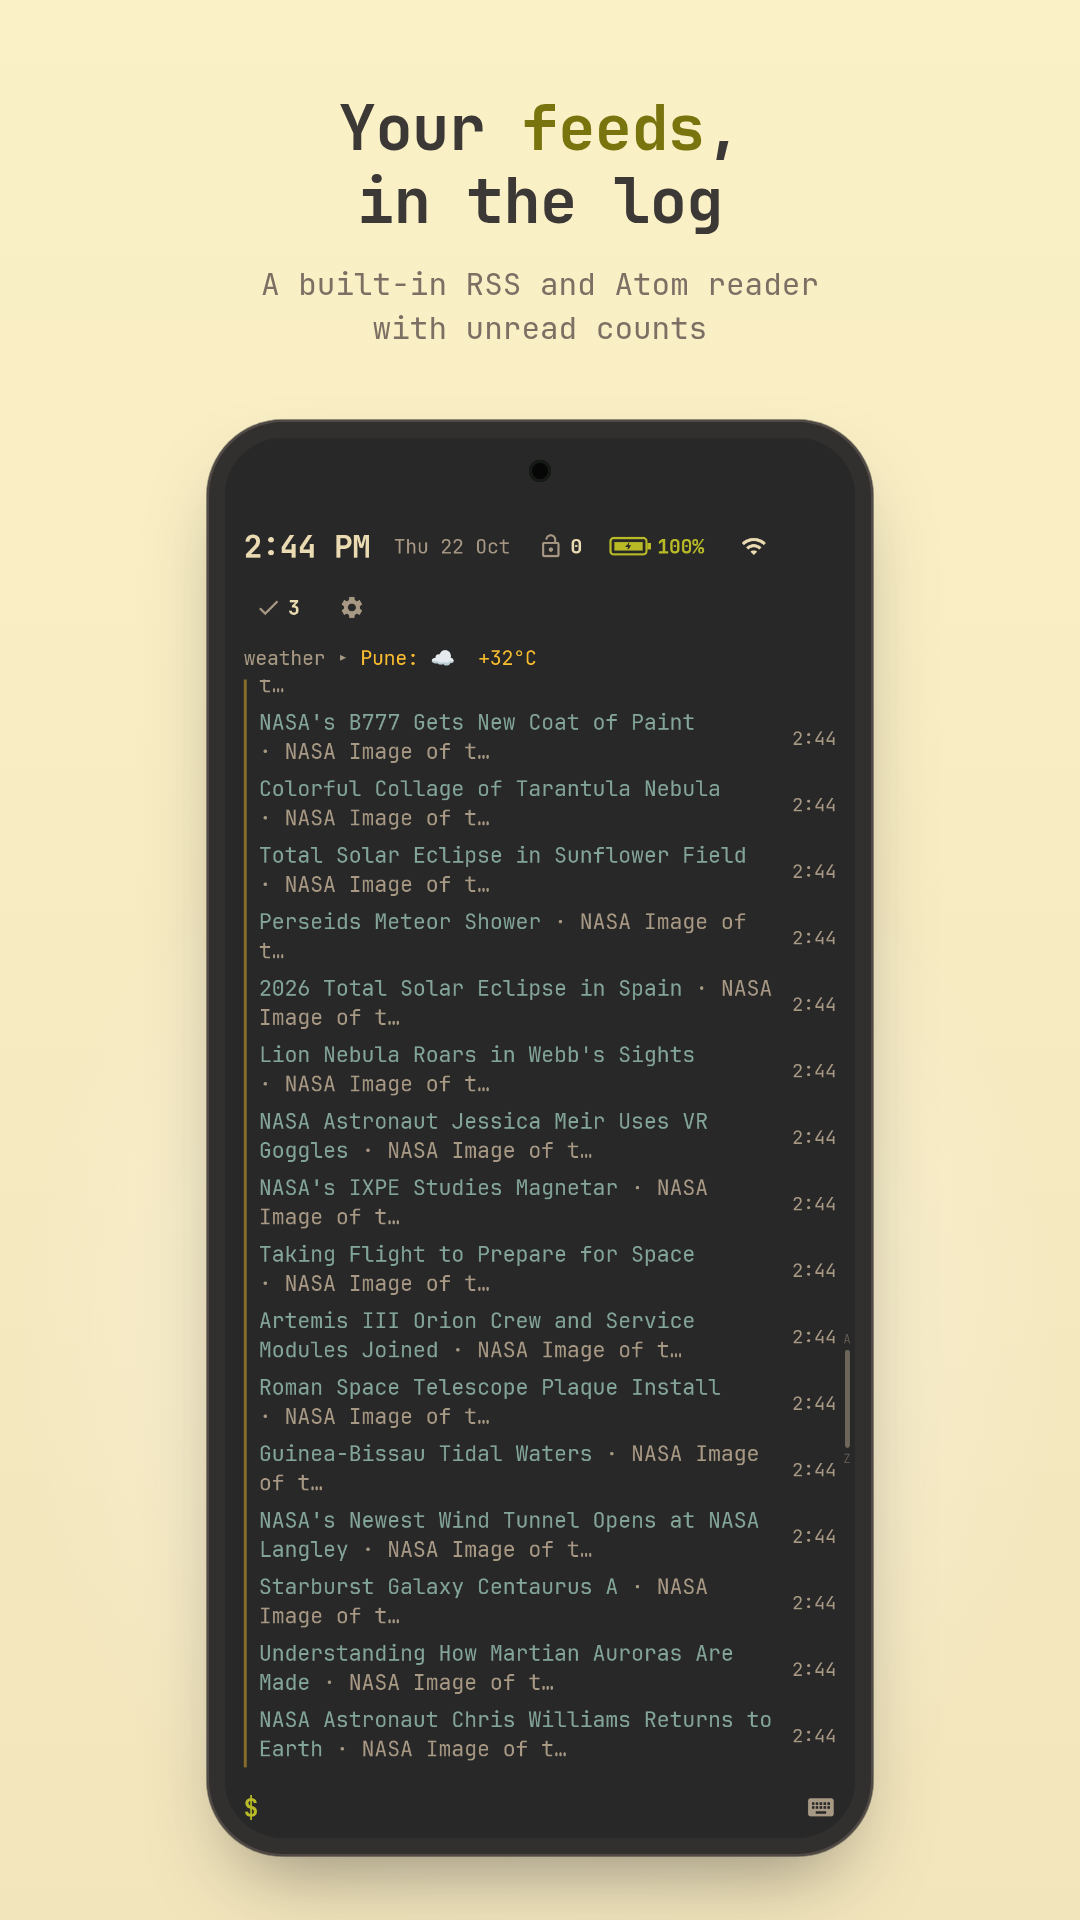
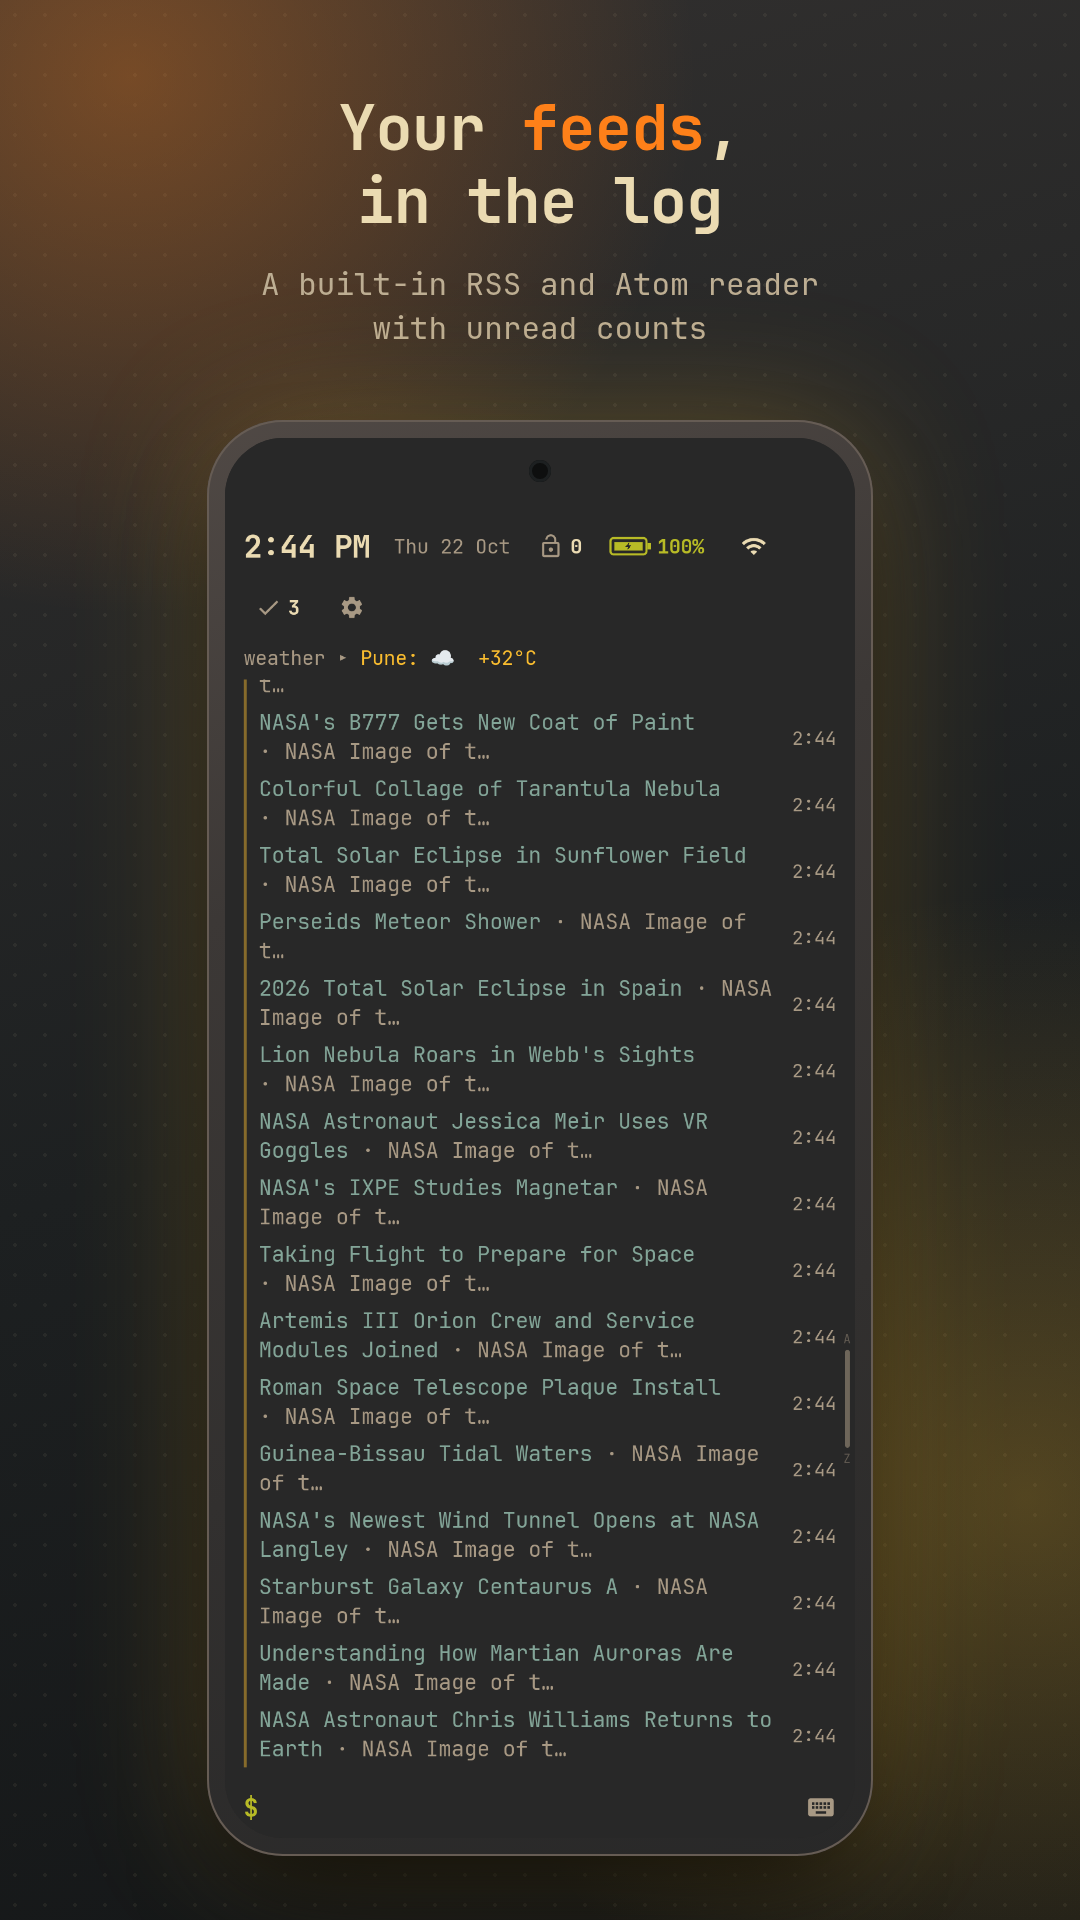
Play graphics on a dark gradient, and a dark keyboard in the typing screenshot
The frames and the feature graphic move to gruvbox dark: a gradient with two gruvbox-coloured glows
per screenshot (its caption's highlighted words take the first) over a faint dot grid. The typing
capture is retaken with the emulator in dark mode, so the keyboard is dark too.

diff --git a/docs/release/graphics/screenshot.html b/docs/release/graphics/screenshot.html
@@ -9,15 +9,14 @@
 	@font-face { font-family: 'JetBrains Mono'; font-weight: 400; src: url('../../../app/src/main/res/font/jetbrains_mono_regular.ttf'); }
 	@font-face { font-family: 'JetBrains Mono'; font-weight: 700; src: url('../../../app/src/main/res/font/jetbrains_mono_bold.ttf'); }
 	:root {
-		/* The website's light colours (gruvbox light); the phone shows the app in gruvbox. */
-		--paper: #fbf1c7;
-		--paper-2: #f2e5bc;
-		--fg: #3c3836;
-		--dim: #7c6f64;
-		--accent: #79740e;
+		/* Gruvbox dark, as the app on the phone. --a and --b (r g b) are each shot's two colours. */
+		--fg: #ebdbb2;
+		--dim: #bdae93;
 		--screen: #282828;
-		--bezel: #32302f;
-		--edge: #504945;
+		--bezel: #3c3836;
+		--edge: #665c54;
+		--a: 250 189 47;
+		--b: 142 192 124;
 	}
 	* { margin: 0; box-sizing: border-box; }
 	html, body { width: 1080px; height: 1920px; overflow: hidden; }
@@ -25,8 +24,10 @@
 		font-family: 'JetBrains Mono', monospace;
 		color: var(--fg);
 		background:
-			radial-gradient(ellipse 70% 45% at 50% 70%, rgb(255 255 255 / 0.45), transparent 70%),
-			linear-gradient(var(--paper), var(--paper-2));
+			radial-gradient(ellipse 75% 40% at 12% 4%, rgb(var(--a) / 0.34), transparent 70%),
+			radial-gradient(ellipse 80% 45% at 95% 78%, rgb(var(--b) / 0.26), transparent 70%),
+			radial-gradient(rgb(235 219 178 / 0.06) 1.6px, transparent 1.8px) 0 0 / 30px 30px,
+			linear-gradient(165deg, #32302f, #1d2021 55%, #141617);
 		position: relative;
 	}
 	.caption {
@@ -40,7 +41,7 @@
 		line-height: 1.18;
 		letter-spacing: -0.01em;
 	}
-	h1 em { font-style: normal; color: var(--accent); }
+	h1 em { font-style: normal; color: rgb(var(--a)); }
 	p {
 		margin-top: 24px;
 		font-size: 31px;
@@ -57,11 +58,11 @@
 		height: 1436px;
 		padding: 18px;
 		border-radius: 76px;
-		background: var(--bezel);
+		background: linear-gradient(160deg, #504945, var(--bezel) 30%, #282828);
 		box-shadow:
 			inset 0 0 0 2px var(--edge),
-			0 40px 80px -30px rgb(60 56 54 / 0.55),
-			0 0 0 1px rgb(40 40 40 / 0.5);
+			0 50px 100px -30px rgb(0 0 0 / 0.75),
+			0 0 140px -10px rgb(var(--b) / 0.30);
 	}
 	.screen {
 		position: relative;
@@ -82,8 +83,8 @@
 		height: 22px;
 		margin-left: -11px;
 		border-radius: 50%;
-		background: #050605;
-		box-shadow: inset 0 0 0 3px #161a16;
+		background: #0e0f0f;
+		box-shadow: inset 0 0 0 3px #1d2021;
 	}
 </style>
 </head>
@@ -91,18 +92,23 @@
 	<div class="caption"><h1 id="title"></h1><p id="text"></p></div>
 	<div class="phone"><div class="screen"><img id="shot" alt=""></div></div>
 	<script>
-		// Captions per capture: the title (an <em> part is green) and one line under it.
+		// Per capture: the title (an <em> part takes the first colour), one line under it, and the
+		// two gruvbox colours of the background glows.
+		const YELLOW = '250 189 47', GREEN = '184 187 38', AQUA = '142 192 124', BLUE = '131 165 152',
+			PURPLE = '211 134 155', ORANGE = '254 128 25';
 		const SHOTS = {
-			'1-home': ['Your home screen<br>is <em>a terminal</em>', 'Clock, weather and to-dos at the top,<br>every command and its answer below'],
-			'2-type': ['Type a few letters,<br>press <em>Enter</em>', 'The best match sits right above your thumb'],
-			'3-feeds': ['Your <em>feeds</em>,<br>in the log', 'A built-in RSS and Atom reader<br>with unread counts'],
-			'4-scripts': ['Scripts in <em>Lua</em><br>or <em>JavaScript</em>', 'On a timer, on an event,<br>or as commands of your own'],
-			'5-themes': ['Make it <em>yours</em>', 'Seven themes, and a theme builder<br>with a live preview'],
+			'1-home': ['Your home screen<br>is <em>a terminal</em>', 'Clock, weather and to-dos at the top,<br>every command and its answer below', YELLOW, AQUA],
+			'2-type': ['Type a few letters,<br>press <em>Enter</em>', 'The best match sits right above your thumb', GREEN, BLUE],
+			'3-feeds': ['Your <em>feeds</em>,<br>in the log', 'A built-in RSS and Atom reader<br>with unread counts', ORANGE, YELLOW],
+			'4-scripts': ['Scripts in <em>Lua</em><br>or <em>JavaScript</em>', 'On a timer, on an event,<br>or as commands of your own', AQUA, PURPLE],
+			'5-themes': ['Make it <em>yours</em>', 'Seven themes, and a theme builder<br>with a live preview', PURPLE, ORANGE],
 		};
 		const name = new URLSearchParams(location.search).get('shot') || '1-home';
-		const [title, text] = SHOTS[name] || [name, ''];
+		const [title, text, a, b] = SHOTS[name] || [name, '', YELLOW, AQUA];
 		document.getElementById('title').innerHTML = title;
 		document.getElementById('text').innerHTML = text;
+		document.documentElement.style.setProperty('--a', a);
+		document.documentElement.style.setProperty('--b', b);
 		document.getElementById('shot').src = 'raw/' + name + '.png';
 	</script>
 </body>

diff --git a/docs/release/graphics/feature-graphic.html b/docs/release/graphics/feature-graphic.html
@@ -9,15 +9,13 @@
 	@font-face { font-family: 'JetBrains Mono'; font-weight: 400; src: url('../../../app/src/main/res/font/jetbrains_mono_regular.ttf'); }
 	@font-face { font-family: 'JetBrains Mono'; font-weight: 700; src: url('../../../app/src/main/res/font/jetbrains_mono_bold.ttf'); }
 	:root {
-		/* As screenshot.html: the website's light colours, the app in gruvbox. */
-		--paper: #fbf1c7;
-		--paper-2: #f2e5bc;
-		--fg: #3c3836;
-		--dim: #7c6f64;
-		--accent: #79740e;
+		/* As screenshot.html: gruvbox dark, with an orange and an aqua glow. */
+		--fg: #ebdbb2;
+		--dim: #bdae93;
+		--accent: #fabd2f;
 		--screen: #282828;
-		--bezel: #32302f;
-		--edge: #504945;
+		--bezel: #3c3836;
+		--edge: #665c54;
 	}
 	* { margin: 0; box-sizing: border-box; }
 	html, body { width: 1024px; height: 500px; overflow: hidden; }
@@ -25,8 +23,10 @@
 		font-family: 'JetBrains Mono', monospace;
 		color: var(--fg);
 		background:
-			radial-gradient(ellipse 45% 75% at 76% 70%, rgb(255 255 255 / 0.5), transparent 70%),
-			linear-gradient(160deg, var(--paper), var(--paper-2) 70%);
+			radial-gradient(ellipse 55% 80% at 8% 10%, rgb(254 128 25 / 0.30), transparent 70%),
+			radial-gradient(ellipse 45% 85% at 80% 85%, rgb(142 192 124 / 0.26), transparent 70%),
+			radial-gradient(rgb(235 219 178 / 0.06) 1.4px, transparent 1.6px) 0 0 / 24px 24px,
+			linear-gradient(160deg, #32302f, #1d2021 55%, #141617);
 		position: relative;
 	}
 	.text {
@@ -40,7 +40,7 @@
 		width: 104px;
 		height: 104px;
 		border-radius: 26px;
-		box-shadow: 0 12px 26px -12px rgb(60 56 54 / 0.6);
+		box-shadow: inset 0 0 0 1px var(--edge), 0 0 0 1px #504945, 0 14px 30px -10px rgb(0 0 0 / 0.8);
 	}
 	h1 {
 		margin-top: 30px;
@@ -65,8 +65,8 @@
 		height: 640px;
 		padding: 10px;
 		border-radius: 42px;
-		background: var(--bezel);
-		box-shadow: inset 0 0 0 2px var(--edge), 0 30px 60px -20px rgb(60 56 54 / 0.6);
+		background: linear-gradient(160deg, #504945, var(--bezel) 30%, #282828);
+		box-shadow: inset 0 0 0 2px var(--edge), 0 30px 70px -20px rgb(0 0 0 / 0.8), 0 0 90px -10px rgb(142 192 124 / 0.3);
 	}
 	.screen {
 		position: relative;
@@ -87,8 +87,8 @@
 		height: 12px;
 		margin-left: -6px;
 		border-radius: 50%;
-		background: #050605;
-		box-shadow: inset 0 0 0 2px #161a16;
+		background: #0e0f0f;
+		box-shadow: inset 0 0 0 2px #1d2021;
 	}
 </style>
 </head>
